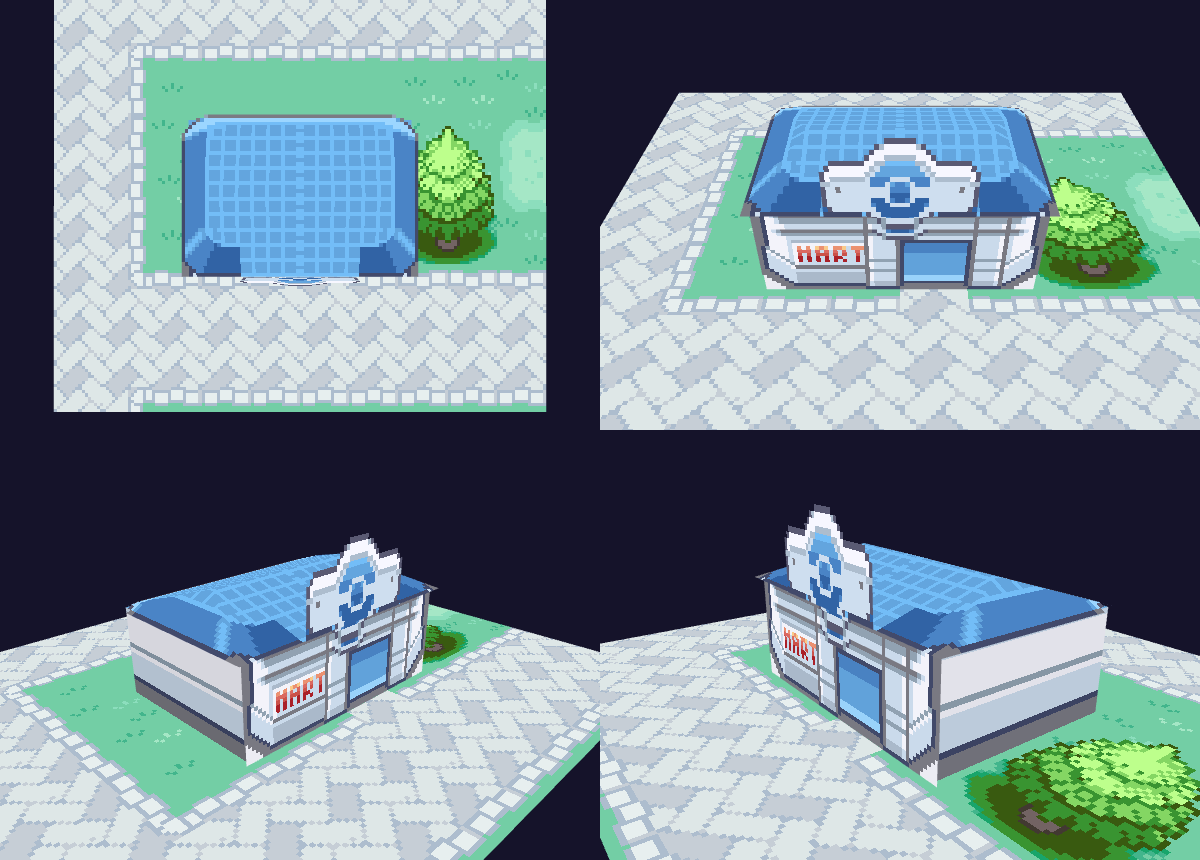
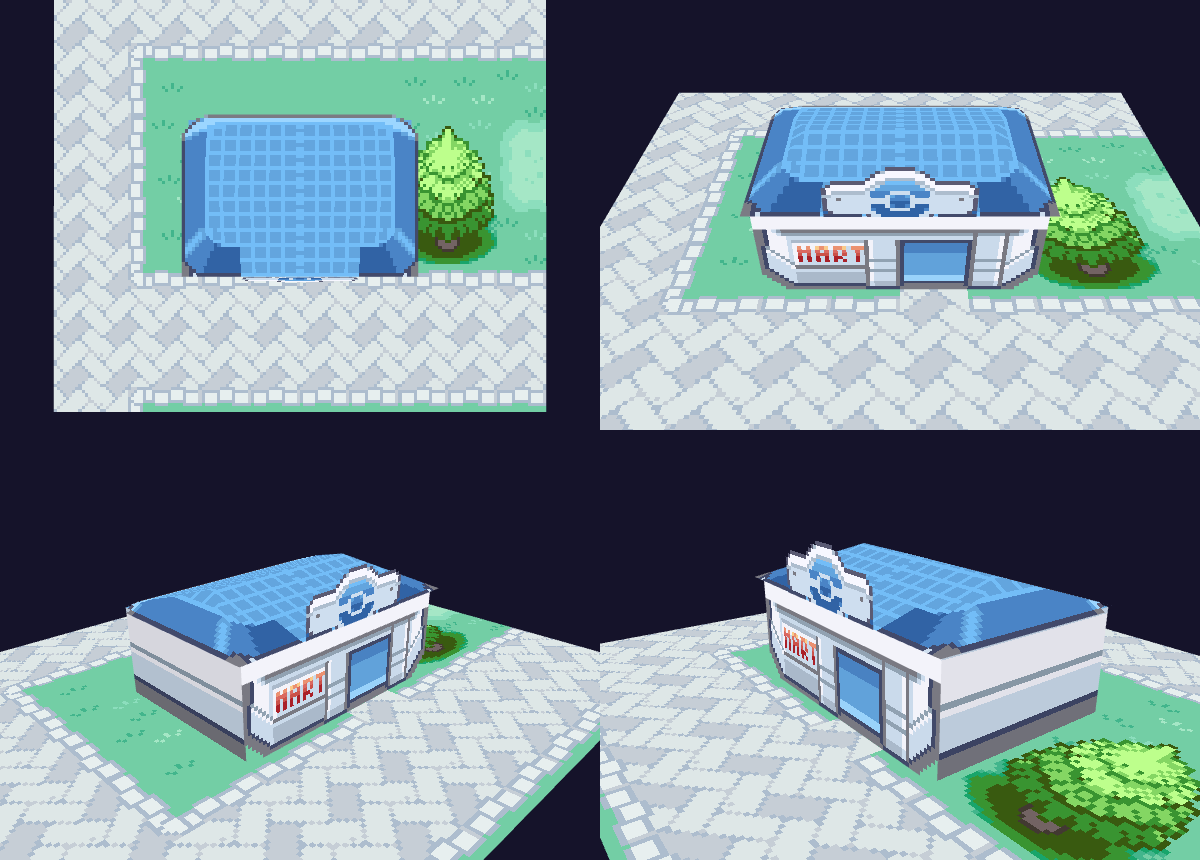
fix: placa do Poke Mart unica e no tamanho da do Centro; quinas com chao
- a ponta da placa que entrava no topo da fachada vira parede (aparecia
  uma placa em cima da outra); faixa acima da fachada sem pedaco de placa
- placa no mesmo tamanho de pixel da placa do Centro Pokemon
- frente do corpo invisivel no Mart e no Centro: as quinas chanfradas da
  fachada mostram o chao em vez do branco do corpo

Claude-Session: https://claude.ai/code/session_011SArCd6Gby5YnmMyJHVXV4

diff --git a/src/render/buildings/PokeMartModel.ts b/src/render/buildings/PokeMartModel.ts
@@ -50,7 +50,12 @@ const SIGN_X1 = 48;
 // jogador. A porta fica com 1 tile, como nas outras construcoes.
 const WALL_HEIGHT = 1.5;
 
-const SIGN_SCALE = 1.3;
+// Linhas do topo da fachada onde ainda aparece a ponta da placa.
+const SIGN_TIP_ROWS = 3;
+
+// Placa no mesmo tamanho de pixel da placa do Centro Pokemon (a do Centro
+// tem 16 px de arte em 0.85 de laje): 18 px de arte -> ~0.96.
+const SIGN_SCALE = 0.85;
 
 export interface PokeMartArt {
   // Arte do bloco 4x4 (64x64 px) ja sem o chao, RGBA, de cima para baixo.
@@ -245,7 +250,9 @@ export function buildPokeMartModel(art: PokeMartArt): THREE.Group {
       textured(side, 0.72),
       plain(roofBlue, 0.8),
       plain(wall, 0.5),
-      plain(wall, 0.9),
+      // Frente do corpo invisivel: nas quinas chanfradas da fachada a arte
+      // e transparente e mostrava o branco do corpo; agora mostra o chao.
+      new THREE.MeshBasicMaterial({ visible: false }),
       textured(side, 0.6),
     ],
   );
@@ -253,20 +260,39 @@ export function buildPokeMartModel(art: PokeMartArt): THREE.Group {
   group.add(body);
 
   // Fachada: a faixa da arte entre o fim do telhado e o pe, em tamanho
-  // natural (porta de 1 tile).
+  // natural (porta de 1 tile). A ponta de baixo da placa da Poke Bola entra
+  // nas primeiras linhas da fachada; ali vira parede (a placa ja esta
+  // inteira no quadro em pe) - senao aparecem duas placas.
+  const facadeTexture = crop(art, 0, facadeTop, ART_WIDTH, facadeBottom + 1 - facadeTop);
+  const facadeImage = facadeTexture.image as { data: Uint8Array; width: number; height: number };
+
+  for (let row = 0; row < SIGN_TIP_ROWS && row < facadeImage.height; row++) {
+    const y = facadeImage.height - 1 - row; // textura de baixo para cima
+    const wallSource = (y * facadeImage.width + SIGN_X0 - 4) * 4;
+
+    for (let x = SIGN_X0; x < SIGN_X1; x++) {
+      facadeImage.data.set(
+        facadeImage.data.subarray(wallSource, wallSource + 4),
+        (y * facadeImage.width + x) * 4,
+      );
+    }
+  }
+
+  facadeTexture.needsUpdate = true;
+
   const facade = new THREE.Mesh(
     new THREE.PlaneGeometry(width, artWall),
-    textured(crop(art, 0, facadeTop, ART_WIDTH, facadeBottom + 1 - facadeTop), 0.96),
+    textured(facadeTexture, 0.96),
   );
   facade.position.set(width / 2, artWall / 2, front + 0.001);
   group.add(facade);
 
-  // Acima dela, ate o beiral: parede lisa (as 3 primeiras linhas da
-  // fachada esticadas - mantem o contorno das quinas).
+  // Acima dela, ate o beiral: parede lisa (uma coluna de parede da
+  // fachada, esticada - sem pedaco de placa).
   if (wallHeight > artWall) {
     const band = new THREE.Mesh(
       new THREE.PlaneGeometry(width, wallHeight - artWall),
-      textured(crop(art, 0, facadeTop, ART_WIDTH, 3), 0.96),
+      textured(crop(art, 4, facadeTop + SIGN_TIP_ROWS, 1, 2), 0.96),
     );
     band.position.set(width / 2, (artWall + wallHeight) / 2, front + 0.001);
     group.add(band);

diff --git a/src/render/buildings/PokemonCenterModel.ts b/src/render/buildings/PokemonCenterModel.ts
@@ -145,7 +145,9 @@ export function buildPokemonCenterModel(art: PokemonCenterArt): THREE.Group {
       textured(side, 0.72), // oeste
       plain(roofRed, 0.8), // topo (escondido pelo telhado)
       plain(wall, 0.5),
-      plain(wall, 0.9), // frente (coberta pela fachada)
+      // Frente invisivel: nas quinas chanfradas da fachada a arte e
+      // transparente e mostrava o branco do corpo; agora mostra o chao.
+      new THREE.MeshBasicMaterial({ visible: false }),
       textured(side, 0.6), // fundo
     ],
   );
